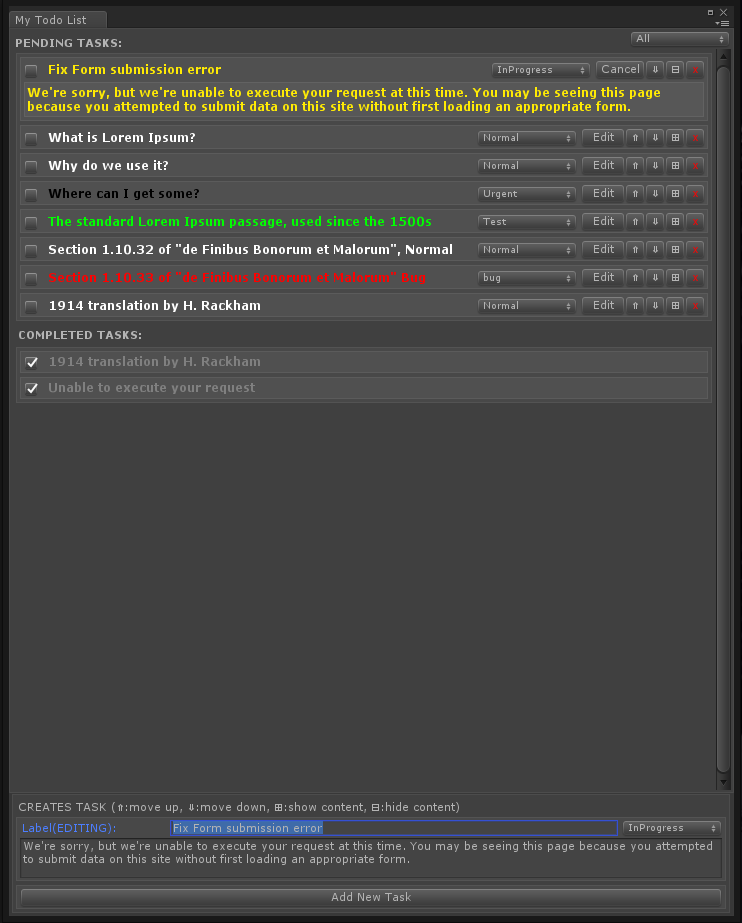
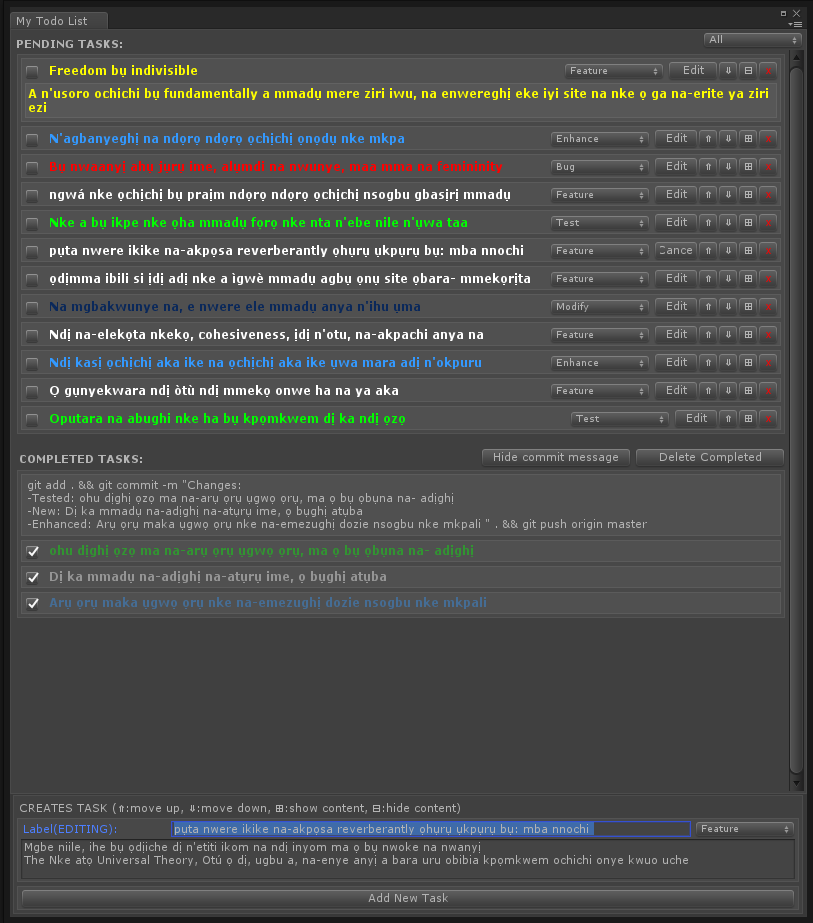
Added commit helper and completed task disabling

Changed region(s): [[0.031, 0.0, 1.0, 1.0], [0.6199, 0.546, 0.7749, 0.5764], [0.9609, 0.9404, 0.9919, 1.0]]

diff --git a/Editor/Todo.cs b/Editor/Todo.cs
@@ -13,6 +13,7 @@ public class Todo : ScriptableObject
         public int type;
         public bool show;
         public bool done;
+        public bool deleted;
         public string description;
     }
 
@@ -22,6 +23,7 @@ public class Todo : ScriptableObject
 public class TodoEditor : EditorWindow
 {
     private string dir = "Assets/Scripts/Editor/Resources/";
+    private string branch = "origin master";
     private Todo target;
     private string description;
     private string errorMsg;
@@ -31,6 +33,7 @@ public class TodoEditor : EditorWindow
     private Vector2 scrollPos;
     private bool edit;
     private int show;
+    private bool showCommit;
 
     [MenuItem ("Window/Todo %l")]
     public static void Init()
@@ -70,18 +73,37 @@ public class TodoEditor : EditorWindow
         return s;
     }
 
-    private Color GetColor(int type)
+    private Color GetColor(int type, byte alpha = 255)
     {
-        if (type == 3) //urgent
-            return Color.black;
-        else if (type == 2) // InProgress
-            return Color.yellow;
-        else if (type == 1) // Normal
-            return Color.white;
+        if (type == 1) //Feature
+            return new Color32(255, 255, 255, alpha); //white
+        else if (type == 2) // Enhance
+            return new Color32(51, 153, 255, alpha); //sky blue
+        else if (type == 3) // Modify
+            return new Color32(10, 40, 90, alpha); // dark blue
+        else if (type == 4) // Bug
+            return new Color32(255, 0, 0, alpha); // red
         else if (type == 5) // Test
-            return Color.green;
-        else // Bug
-            return Color.red;
+            return new Color32(0, 255, 0, alpha); // green
+        else // active (first)
+            return new Color32(255, 255, 0, alpha); //yellow
+    }
+
+    private string ConCat(int type, string title)
+    {
+        string t = "\n-";
+        if (type == 1) //Feature
+            t += "New: ";
+        else if (type == 2) // Enhance
+            t += "Enhanced: ";
+        else if (type == 3) // Modify
+            t += "Refactored: ";
+        else if (type == 4) // Bug
+            t += "Fixed: ";
+        else if (type == 5) // Test
+            t += "Tested: ";
+
+        return t + title;
     }
 
     private void OnGUI()
@@ -102,12 +124,13 @@ public class TodoEditor : EditorWindow
                 });
                 Save();
             }
-            
         }
 
         string[] types = new string[6] {
-            "All", "Normal", "InProgress", "Urgent", "bug", "Test"	
+            "All", "Feature", "Enhance", "Modify", "Bug", "Test"	
         };
+
+        string commitMsg = "Changes:";
 
         GUIStyle margin = new GUIStyle(GUI.skin.button);
         margin.margin = new RectOffset(0, 0, 0, 0);
@@ -118,13 +141,13 @@ public class TodoEditor : EditorWindow
             GUILayout.BeginVertical("box");
 
                 int size = target.todo.Count - 1;
-                int newSize = size;
+                int last = 0;
                 int completed= 0;
                 bool hasTask = false;
-                for (int i = 0; i <= newSize; i++)
+                for (int i = 0; i <= size; i++)
                 {
-                    if (target.todo[i].done)
-                        newSize--;
+                    if (! target.todo[i].done)
+                        last = i;
                 }
                 
                 GUILayout.BeginHorizontal();
@@ -134,15 +157,19 @@ public class TodoEditor : EditorWindow
                 
                 scrollPos = GUILayout.BeginScrollView(scrollPos,false,true);
                 
-                GUILayout.BeginVertical("box");	
+                GUILayout.BeginVertical("box");
+                    bool first = true;
+                    int lastId = 0;
                     for (int i = 0; i <= size; i++)
                     {
                         TD td = target.todo[i];
-
+                        if (td.deleted)
+                            continue;
+                            
                         if (td.done)
                         {
+                            commitMsg += ConCat(td.type, td.title);
                             completed++;
-                            newSize++;
                             continue;
                         }
                         else if (show != 0 && show != td.type)
@@ -157,7 +184,7 @@ public class TodoEditor : EditorWindow
                             GUILayout.BeginHorizontal();
                         
                                 td.done = EditorGUILayout.Toggle(td.done, GUILayout.Width(20));
-                                EditorGUILayout.LabelField(td.title, FontAndWith(12, 100, GetColor(td.type), FontStyle.Bold));
+                                EditorGUILayout.LabelField(td.title, FontAndWith(12, 100, GetColor(first ? -1 : td.type), FontStyle.Bold));
                                 types[0] = null;
                                 td.type = EditorGUILayout.Popup(td.type, types, GUILayout.Width(100));
                                 if(GUILayout.Button((editing == i) ? "Cancel" : "Edit", margin))
@@ -179,10 +206,10 @@ public class TodoEditor : EditorWindow
                                 }
                                 
                                 TD next = target.todo.ElementAtOrDefault(i + 1);
-                                TD prev = target.todo.ElementAtOrDefault(i - 1);
+                                TD prev = target.todo.ElementAtOrDefault(lastId);
                                 margin.fixedWidth = 20;
 
-                                if(i == 0)
+                                if(first)
                                 {
                                     if(GUILayout.Button("⇓", margin))
                                     {
@@ -194,7 +221,7 @@ public class TodoEditor : EditorWindow
                                         }
                                     }
                                 }
-                                else if(i == newSize)
+                                else if(i == last)
                                 {
                                     if(GUILayout.Button("⇑", margin))
                                     {
@@ -234,13 +261,11 @@ public class TodoEditor : EditorWindow
                                 Color c = margin.normal.textColor;
                                 margin.normal.textColor = Color.red;
                                 if(GUILayout.Button("x", margin))
-                                {
                                     if (EditorUtility.DisplayDialog("Warning!", "Are you sure you want to delete \"" + td.title + "\"",  "Yes", "No"))
                                     {
                                         target.todo.RemoveAt(i);
                                         return;
                                     }
-                                }
                                 margin.normal.textColor = c;
 
                                 margin.fixedWidth = 44;
@@ -249,9 +274,12 @@ public class TodoEditor : EditorWindow
                             if (td.show)
                             {
                                 GUILayout.BeginVertical("box");
-                                    EditorGUILayout.LabelField(td.description, FontAndWith(12, 0, GetColor(td.type), FontStyle.Bold, true));
+                                    EditorGUILayout.LabelField(td.description, FontAndWith(12, 0, GetColor(first ? -1 : td.type), FontStyle.Bold, true));
                                 GUILayout.EndVertical();
                             }
+
+                            first = false;
+                            lastId = i;
 
                         GUILayout.EndVertical();
                     }
@@ -261,30 +289,56 @@ public class TodoEditor : EditorWindow
                         EditorGUILayout.LabelField("No Task", EditorStyles.largeLabel);
                     }
                 GUILayout.EndVertical();
-
-                GUILayout.Label("COMPLETED TASKS:", EditorStyles.boldLabel);
+                
                 if (completed > 0)
                 {
+                    GUILayout.Space(10);
+                
+                    GUILayout.BeginHorizontal();
+                        GUILayout.Label("COMPLETED TASKS:", EditorStyles.boldLabel);
+                        if(GUILayout.Button(showCommit ? "Hide commit message" : "Show commit message", GUILayout.Width(150)))
+                            showCommit = ! showCommit;
+
+                        bool delete = false;
+                        if(GUILayout.Button("Delete Completed", GUILayout.Width(150)))
+                            if (EditorUtility.DisplayDialog("Warning!", "Are you sure you want to delete all completed tasks?",  "Yes", "No"))
+                                delete = true;
+                    
+                    GUILayout.EndHorizontal();
                     GUILayout.BeginVertical("box");
+                        if (showCommit)
+                        {
+                            GUILayout.BeginVertical("box");
+                                commitMsg = "git add . && git commit -m \"" + commitMsg + "\" && git push " + branch;
+                                EditorGUILayout.SelectableLabel(commitMsg, GUILayout.MaxHeight((completed + 1) * 14));
+                            GUILayout.EndVertical();
+                        }
+                        
                         for (int i = 0; i < target.todo.Count; i++)
                         {
                             TD td = target.todo[i];
-                            if (! td.done)
+                            if (! td.done || td.deleted)
                                 continue;
+                            
+                            if (delete)
+                                td.deleted = true;
 
                             GUILayout.BeginVertical("box");
 
                                 GUILayout.BeginHorizontal();
                                     td.done = EditorGUILayout.Toggle(td.done, GUILayout.Width(20));
-                                    EditorGUILayout.LabelField(td.title, FontAndWith(12, 100, Color.grey, FontStyle.Bold));
+                                    EditorGUILayout.LabelField(td.title, FontAndWith(12, 100, GetColor(td.type, 100), FontStyle.Bold));
                                 GUILayout.EndHorizontal();
 
                             GUILayout.EndVertical();
                         }
+
+                        if (delete)
+                            return;
                     GUILayout.EndVertical();
                 }
 
-                GUILayout.EndScrollView ();
+                GUILayout.EndScrollView();
             GUILayout.EndVertical();
         GUILayout.EndArea();
         
@@ -322,6 +376,7 @@ public class TodoEditor : EditorWindow
                             type = this.type,
                             description = this.description
                         };
+                        type = 1;
                         title = "";
                         description = "";
                         GUI.FocusControl(null);
@@ -350,5 +405,6 @@ public class TodoEditor : EditorWindow
     void OnDestroy()
     {
         Save();
-    }	    
+    }	
+    
 }

diff --git a/README.md b/README.md
@@ -3,6 +3,7 @@ A no frills todo list tool, ideal for small prototypes, game and personal projec
 
 ![alt text](ss.png)
 
+Git branch setup: ``TodoEditor.branch = "origin master"``
 Note: This will create a directory like this ``Assets/Scripts/Editor/Resources/`` in your project,
 unless changed. See:   
-`` EditorWindow.dir = "Assets/Scripts/Editor/Resources/"``
+`` TodoEditor.dir = "Assets/Scripts/Editor/Resources/"``
